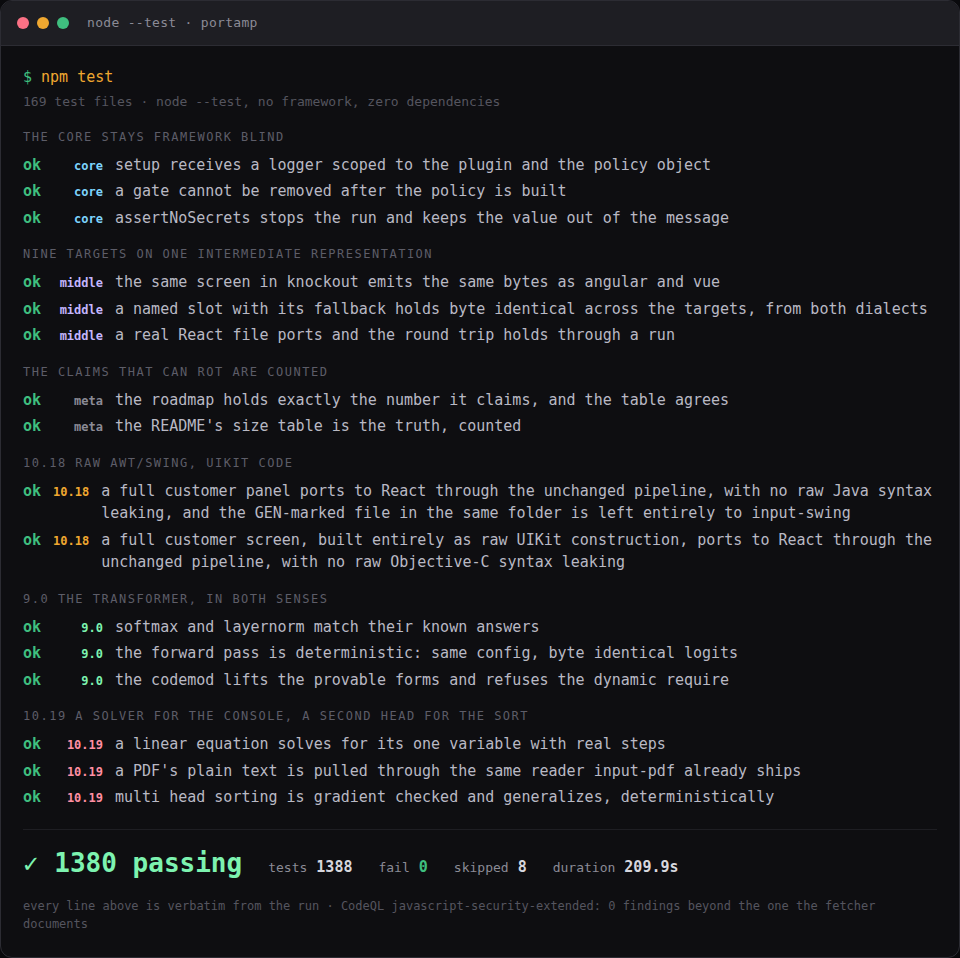
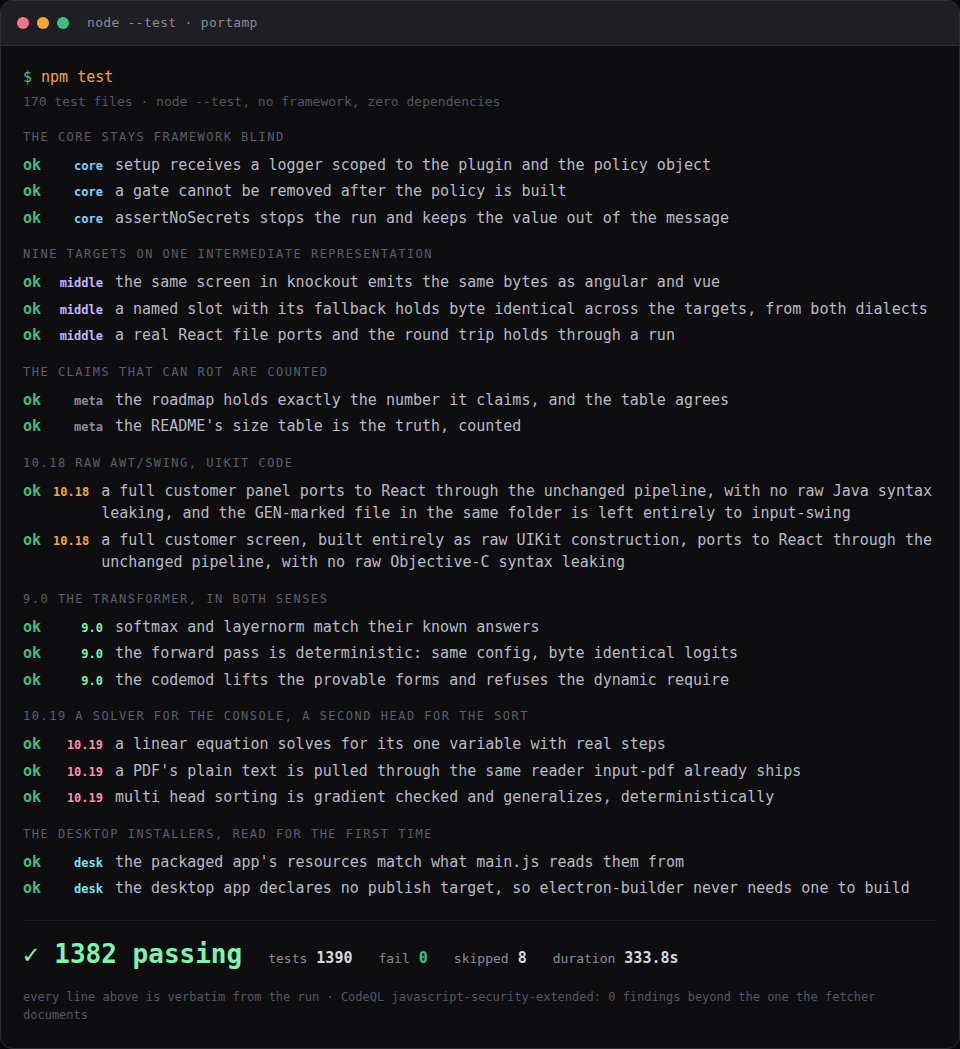
Fix the desktop installer packaging and prove it downloads and runs
The Electron shell (desktop/) was written and wired into
.github/workflows/release.yml (a .dmg and .zip for macOS, an NSIS installer
and .zip for Windows, an AppImage for Linux), but that workflow had never
once been run, so nobody had confirmed a packaged build actually opens. It
does not: desktop/package.json declared the repository copy under
build.files as a from/to mapping, which electron-builder asar packs into
the app archive, while desktop/main.js reads the repository from
process.resourcesPath/portamp, an unpacked directory the files mapping
never creates. Every packaged build fails at the first click with
"Cannot find module '.../portamp/src/core/kernel.js'", on all three
platforms alike, since the bug is in electron-builder's own packing rule
and not anything platform specific.

The mapping moves to build.extraResources, the option that actually copies
files to disk beside the app. Fixing that surfaced a second failure the
first one had been hiding: electron-builder crashes computing an update
channel name when it has neither a publish target nor a repository to
infer one from; nothing here has an auto updater wired in, so build.publish
is now explicitly null, the honest setting rather than a workaround.

Both were proven by building the real Linux target by hand, running the
packaged binary headless under Xvfb with --open example/legacy, and
confirming over a real HTTP request that the console it served was the
[…]

diff --git a/test/desktop.test.js b/test/desktop.test.js
@@ -1,0 +1,56 @@
+import assert from "node:assert/strict";
+import { readFile } from "node:fs/promises";
+import { join } from "node:path";
+import test from "node:test";
+import { fileURLToPath } from "node:url";
+
+/**
+ * The desktop shell (desktop/main.js) expects the repository it wraps to sit
+ * on disk at process.resourcesPath/portamp, unpacked, because it imports
+ * src/core/kernel.js from there at runtime rather than reading it out of the
+ * asar archive. electron-builder only puts a from/to file mapping there when
+ * it is declared under extraResources; the same mapping declared under
+ * files instead packs it inside the asar, where fileURLToPath'd dynamic
+ * import() cannot resolve it, and the packaged app fails at the first click
+ * with "Cannot find module .../portamp/src/core/kernel.js" on every platform,
+ * not just one. Building the real installers on all three platforms to catch
+ * this again would need the electron toolchain in every CI run, so this test
+ * holds the two files to their contract structurally instead, fast and with
+ * no dependency, the same way test/hygiene.test.js holds prose to counts
+ * without re-deriving them.
+ */
+
+const ROOT = fileURLToPath(new URL("../", import.meta.url));
+
+test("the packaged app's resources match what main.js reads them from", async () => {
+  const pkg = JSON.parse(await readFile(join(ROOT, "desktop/package.json"), "utf8"));
+  const main = await readFile(join(ROOT, "desktop/main.js"), "utf8");
+
+  const resourceName = /join\(process\.resourcesPath,\s*["'](\w+)["']\)/.exec(main);
+  assert.ok(resourceName, "main.js reads the packaged repo from a named resourcesPath subdirectory");
+  const name = resourceName[1];
+
+  const extra = pkg.build.extraResources ?? [];
+  const mapping = extra.find((e) => typeof e === "object" && e.to === name);
+  assert.ok(mapping, `desktop/package.json's build.extraResources copies a "from" to "${name}", matching main.js`);
+  assert.ok(mapping.from, "the mapping names a source directory");
+  for (const must of ["src/**", "plugins/**", "package.json"]) {
+    assert.ok(mapping.filter?.includes(must), `the extraResources filter carries ${must}`);
+  }
+
+  // The bug this test exists to catch: the same from/to mapping declared
+  // under files instead of extraResources builds without error and asar
+  // packs the repo, so process.resourcesPath/portamp never exists on disk.
+  for (const f of pkg.build.files ?? []) {
+    assert.ok(typeof f === "string", "build.files holds plain paths only; a from/to mapping belongs in extraResources");
+  }
+});
+
+test("the desktop app declares no publish target, so electron-builder never needs one to build", async () => {
+  const pkg = JSON.parse(await readFile(join(ROOT, "desktop/package.json"), "utf8"));
+  // With no publish target, electron-builder's own updateInfoBuilder throws
+  // (computeChannelNames reads a null publish config's .channel) unless
+  // publish is explicitly turned off; there is no auto-updater wired into
+  // main.js, so off is the honest setting, not a workaround.
+  assert.equal(pkg.build.publish, null, "build.publish is explicitly null; nothing here auto-updates");
+});

diff --git a/test/finalize.test.js b/test/finalize.test.js
@@ -104,7 +104,7 @@ test("the roadmap holds exactly the number it claims, and the table agrees", asy
   const { readFile } = await import("node:fs/promises");
   const md = await readFile(join(process.cwd(), "ROADMAP.md"), "utf8");
   const entries = md.match(/^\*\*\d+\..*(✅|🔨|▢)\s*$/gm) ?? [];
-  assert.equal(entries.length, 681, "six hundred and eighty one entries, each carrying a status");
+  assert.equal(entries.length, 682, "six hundred and eighty two entries, each carrying a status");
   const count = (mark) => entries.filter((e) => e.trim().endsWith(mark)).length;
   assert.match(md, new RegExp(`\\| shipped \\| ${count("✅")} \\|`), "the table's shipped row is the real count");
   assert.match(md, new RegExp(`\\| new in this branch \\| ${count("🔨")} \\|`));

diff --git a/ROADMAP.md b/ROADMAP.md
@@ -1,6 +1,6 @@
 # The roadmap, all of it
 
-Six hundred and eighty one features across one hundred and eighty four phases. The statuses are
+Six hundred and eighty two features across one hundred and eighty five phases. The statuses are
 honest: ✅ shipped and under test, 🔨 new in this branch, ▢ planned. A planned
 feature carries its phases where it is big enough to need them; nothing here
 is a name invented to round out a number, and anything that turns out to be a
@@ -2684,14 +2684,19 @@ A person asked for a "one soft solution" that could read documents and do math h
 **681. vis-transformer's sort task gets the multi head port trainReverseMultiHead already proved, its own gradients checked rather than assumed to carry over** 🔨
 The single head block already learns to sort a repetition allowed sequence, the harder task reversal is not, and a person asked for the transformer built out further; rather than a second guess at a new architecture, this reuses the exact multi head machinery (the per head split, the concatenation, the output projection Wo) that `trainReverseMultiHead` already proved correct, aimed instead at the sort task. `trainSortMultiHead` and `sortMultiHeadGradientCheck` mirror their reversal counterparts exactly, and the numerical gradient check runs again on the harder task rather than trusting the earlier proof to transfer; SORT_MULTIHEAD.md reports the held out accuracy exactly as measured, whether more heads actually help a one block model generalize sorting being a real question this only answers by training and grading rather than by assuming more heads must help. test/transformer.test.js holds it.
 
+## Phase 185: the desktop installers, read for the first time since they were written
+
+**682. The desktop installers read again: the packaged repository was never where main.js looks for it, on any of the three platforms, because the release workflow that builds them had never once been run** 🔨
+A person asked whether this actually downloads and runs on a MacBook, a PC and a Linux machine. The installers were written (desktop/, an Electron shell around the same kernel, policy and console the CLI runs, packaged by electron-builder into a .dmg and .zip, an NSIS installer and .zip, and an AppImage) and wired into .github/workflows/release.yml, but that workflow had zero runs in the repository's history, so nobody, human or otherwise, had ever confirmed the packaged app opens. It does not: desktop/package.json declared the repository copy under `build.files` as a `from`/`to` mapping, which electron-builder asar packs into the app archive, while desktop/main.js reads the repository from `process.resourcesPath/portamp`, an unpacked directory beside the archive that the `files` mapping never creates; every packaged build failed at the first click with `Cannot find module '.../portamp/src/core/kernel.js'`, on macOS and Windows exactly as it does on Linux, since the bug is in electron-builder's own packing rule and not in anything platform specific. The mapping moved to `build.extraResources`, the one electron-builder option that copies files to disk beside the app rather than into it. Fixing that surfaced a second failure the first one had been hiding: electron-builder generates auto update metadata by default and crashes computing a channel name when it can find neither a publish target nor a repository field to infer one from; nothing here has an auto updater wired in, so `build.publish` is now explicitly `null`, the honest setting rather than a workaround. Both were proven by building the real Linux target by hand (electron-builder was already installed in desktop/node_modules), running the packaged binary headless under Xvfb with `--open example/legacy`, and confirming over a real HTTP request that the console it served was the genuine run, not a guess that the fix would work. test/desktop.test.js holds the contract structurally, so a future edit that separates the two files again fails without needing the electron toolchain in every run.
+
 ---
 
 | | |
 | --- | --- |
 | shipped | 44 |
-| new in this branch | 634 |
+| new in this branch | 635 |
 | planned | 3 |
-| total | 681 |
+| total | 682 |
 
 The three open are open for stated reasons, not for lack of time: npm
 publish is the one command that belongs to a person, with docs/PUBLISHING.md

diff --git a/README.md b/README.md
@@ -10,10 +10,10 @@ about where the plugin classes come from. Everything on the panel is real: 718
 lines of core, no runtime dependencies, 221 plugins, and the literal output of
 `npm run demo`.</sub>
 
-![node --test running the portamp suite: 1380 passing, 1388 tests, 0 failing, 8 skipped, grouped by the core staying framework blind, nine targets on one IR, the countable claims, and the newest plugins, from raw AWT/Swing and UIKit code to the transformer and the console's own solver](media/test-run.png)
+![node --test running the portamp suite: 1382 passing, 1390 tests, 0 failing, 8 skipped, grouped by the core staying framework blind, nine targets on one IR, the countable claims, and the newest plugins, from raw AWT/Swing and UIKit code to the transformer, the console's own solver, and the desktop installers read for the first time](media/test-run.png)
 
-<sub>Proof, not a promise. Every line above is verbatim from `npm test`: 1380
-tests pass across 169 test files with `node --test` and no framework, and
+<sub>Proof, not a promise. Every line above is verbatim from `npm test`: 1382
+tests pass across 170 test files with `node --test` and no framework, and
 CodeQL's javascript-security-extended query finds nothing it does not already
 know about: the one alert it raises on `input-fetch` is the site copy writing
 network data to a folder, which is what copying a site is, and the write
@@ -72,7 +72,7 @@ honest: there is nowhere in 718 lines to hide a special case for Angular.
 | --- | --- |
 | Core | **718 lines** across four files |
 | Every line of the tool | 62,254 lines of JavaScript in src and plugins |
-| Tests | 23,371 lines, 1388 cases across 169 files |
+| Tests | 23,433 lines, 1390 cases across 170 files |
 | Source on disk | src 27 KB, plugins 2.9 MB |
 | Runtime dependencies | **none** |
 | Build step | none |
@@ -82,7 +82,7 @@ cat src/core/*.js src/cli.js | wc -l    # 718, and the suite fails if this table
 du -sh src plugins                      # the whole tool
 ```
 
-The core grew from 527 lines to 718 across six hundred and eighty one features, and every
+The core grew from 527 lines to 718 across six hundred and eighty two features, and every
 one of those lines is a rule earning its place: sharper policy gates, the
 explanations a stopped run prints, the flags the workbench needed. Nothing in
 `src/` knows a framework. Capability arrives in `plugins/`, and the suite
@@ -1121,8 +1121,8 @@ The plugin classes are the point. Everything below is a directory and an
 
 **Still open**
 
-The whole picture is [ROADMAP.md](ROADMAP.md): six hundred and eighty one features in
-one hundred and eighty four phases, forty four shipped, six hundred and thirty four new in the
+The whole picture is [ROADMAP.md](ROADMAP.md): six hundred and eighty two features in
+one hundred and eighty five phases, forty four shipped, six hundred and thirty five new in the
 current branch, three planned, every status honest. Each open one names
 what it waits on; npm publish stays a command that belongs to a person.
 

diff --git a/CLAUDE.md b/CLAUDE.md
@@ -840,8 +840,8 @@ Named plainly so nobody rediscovers it as a surprise.
 
 ## Next tasks, in the order they pay off
 
-The full picture is ROADMAP.md: six hundred and eighty one features in
-one hundred and eighty four phases, statuses honest. What remains open, and why:
+The full picture is ROADMAP.md: six hundred and eighty two features in
+one hundred and eighty five phases, statuses honest. What remains open, and why:
 
 1. **npm publish.** The workflow is written: a v* tag runs the suite,
    publish-check, the tag against the version and the token's presence, then
